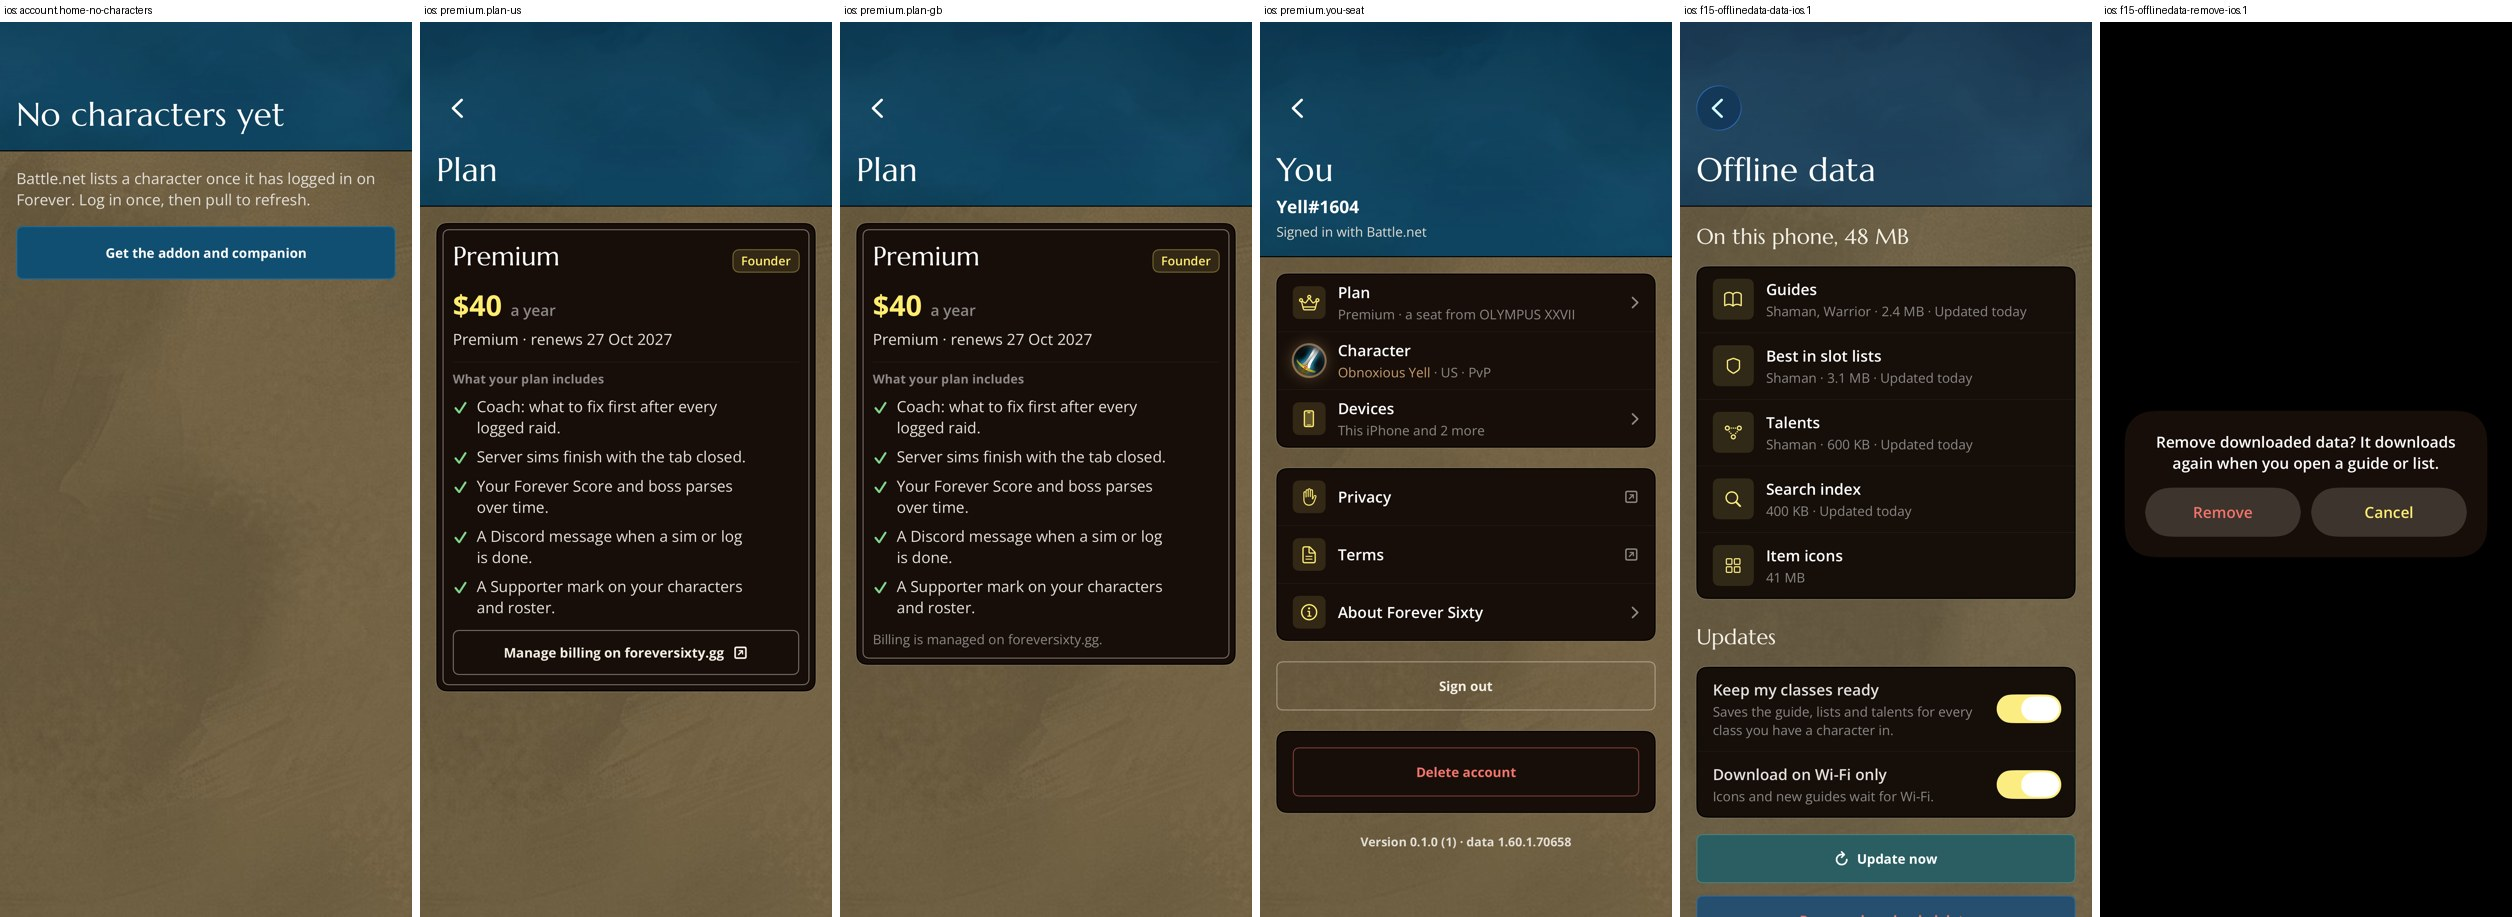
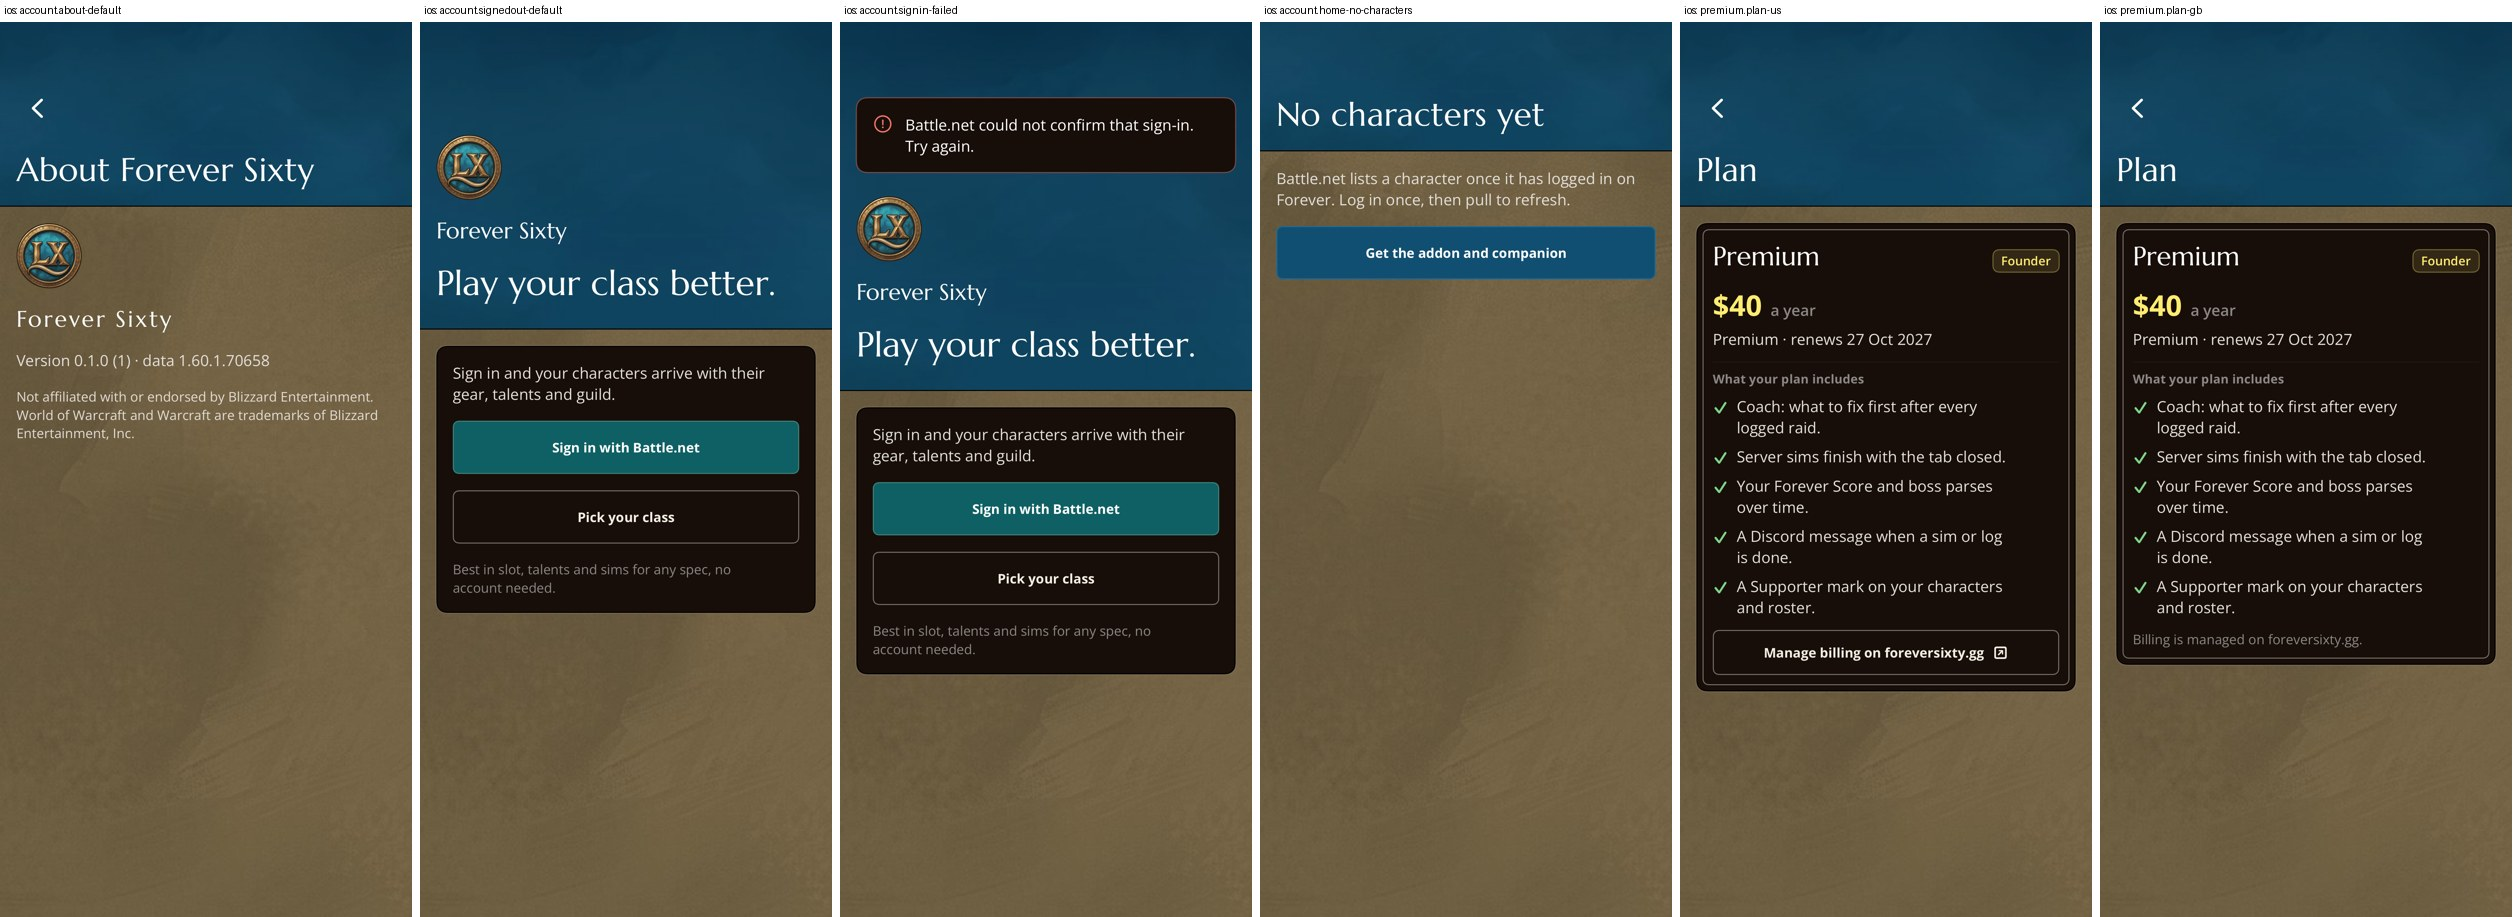
docs(design): iOS secondary screens pass every reviewer
Claude-Session: https://claude.ai/code/session_01Wrtayzxz2jvhjren4pWihn

diff --git a/design/reviews/2026-11-10-mobile-rest/verdicts/ios-final.md b/design/reviews/2026-11-10-mobile-rest/verdicts/ios-final.md
@@ -1,0 +1,39 @@
+# iOS secondary screens: final gate (2026-11-10)
+
+Goldens recorded on CI (ios.yml record, run 42940733894).
+
+| Group | ux-designer | wow-player | ai-slop | info-density | brand-consistency | guild-officer |
+|---|---|---|---|---|---|---|
+| guides | SHIP (r3) | SHIP (r2) | PASS (r3) | DENSE (r1) | CONSISTENT (r3) | |
+| character | SHIP (r3) | SHIP (r2) | PASS (r3) | DENSE (r1) | CONSISTENT (r2) | |
+| bis-search | SHIP (r3) | SHIP (r2) | PASS (r3) | DENSE (r1) | CONSISTENT (r2) | |
+| account | SHIP (r3) | SHIP (r2) | PASS (r3) | DENSE (r1) | CONSISTENT (r2) | |
+| guild-raids | SHIP (r3) | SHIP (r2) | PASS (r3) | DENSE (r1) | CONSISTENT (r3) | WORTH PAYING FOR (r2) |
+| sims-reports-talents | SHIP (r3) | SHIP (r2) | PASS (r3) | DENSE (r1) | CONSISTENT (r3) | |
+
+## What iOS needed beyond Android's port
+
+**One N3 bar system on every pushed screen.**
+- The bar is clear at rest with no title.
+- The title fades in on scroll.
+- A shared `BandHead` runs the band under the status bar with the page title.
+- The snapshot hosts render pushed screens inside a NavigationStack, as the app does.
+
+**The answer control.** One segmented pill with no answer filled when unanswered (the guild officer's blocker), shared with Home.
+
+**Test hosts paint the repo's game icons.**
+
+## Follow-ups (none block a verdict)
+
+**From review:**
+- The BiS set line wording "{dps} {unit} · Updated {date}" (shared copy, under another lane's copy lock).
+- Guide loading and error heads should name the guide once it is known.
+- The skeletons draw the real head.
+- The note field becomes a bottom-rule input.
+- The delete screens get a short line plus a web link.
+- Forever Score bars coloured by role.
+
+**Carried from Android's data and product list:**
+- stat weights on the guide;
+- the signed-out paperdoll;
+- Fire Nova's icon.
